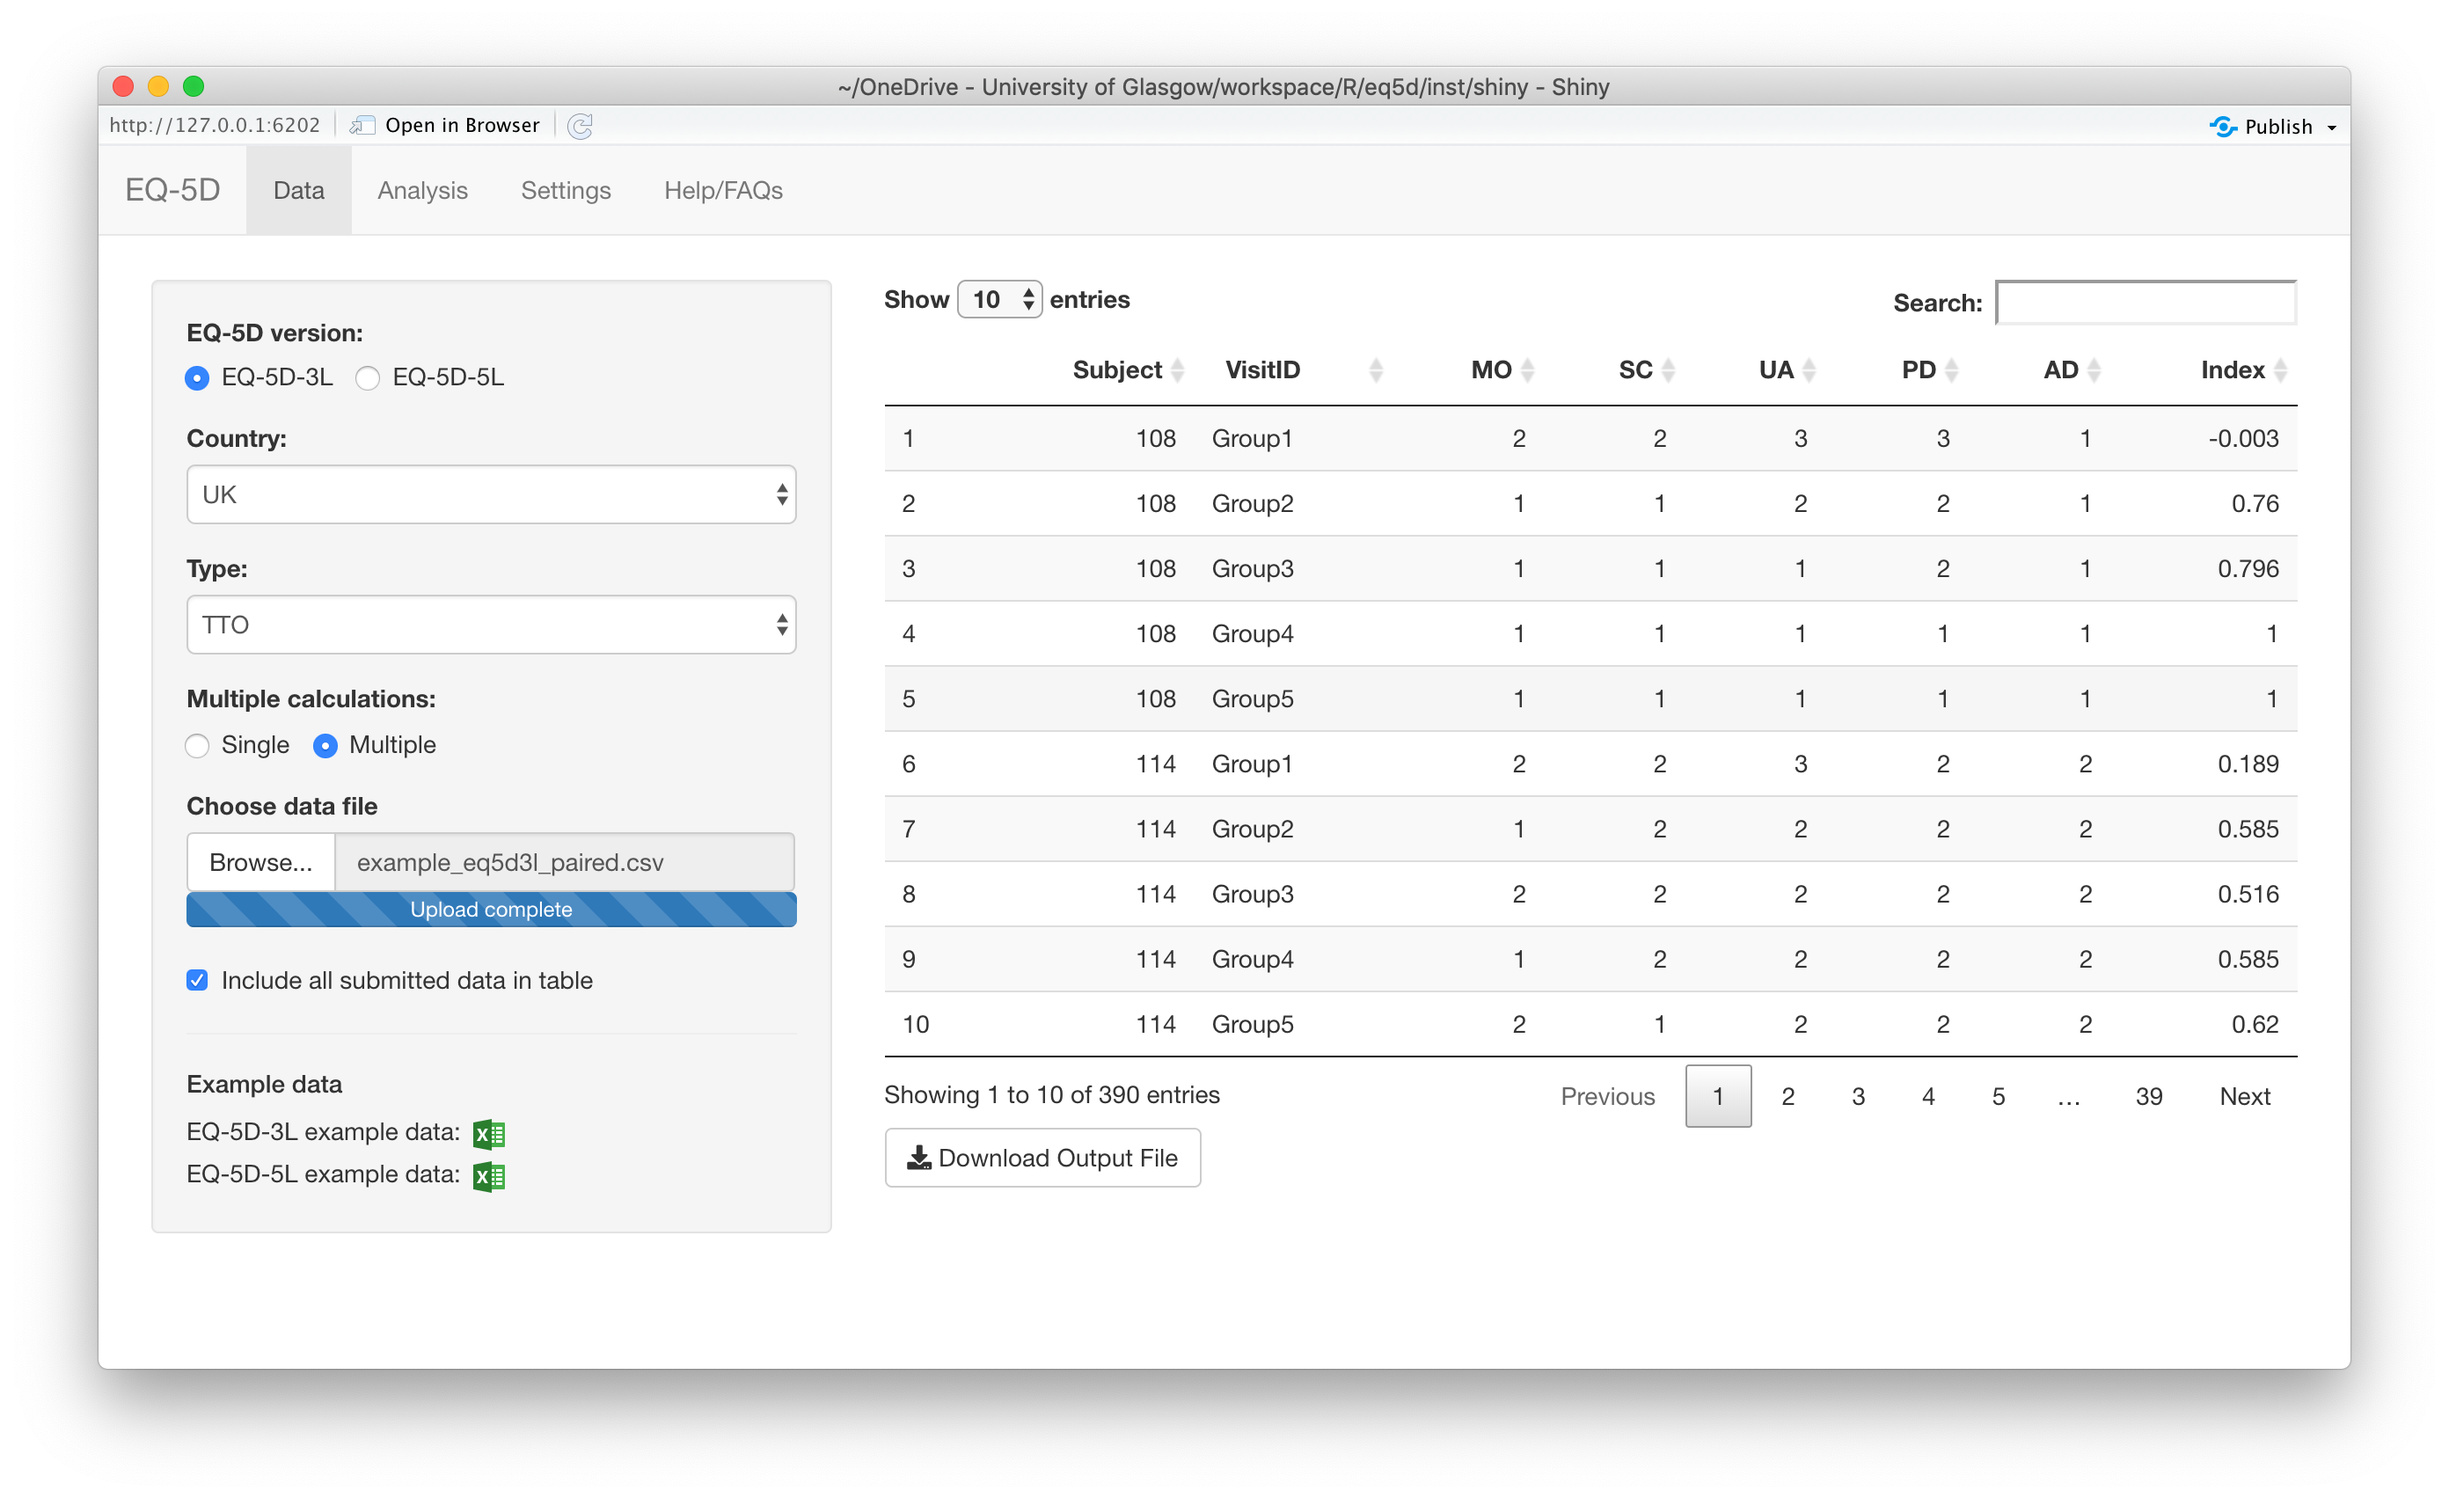
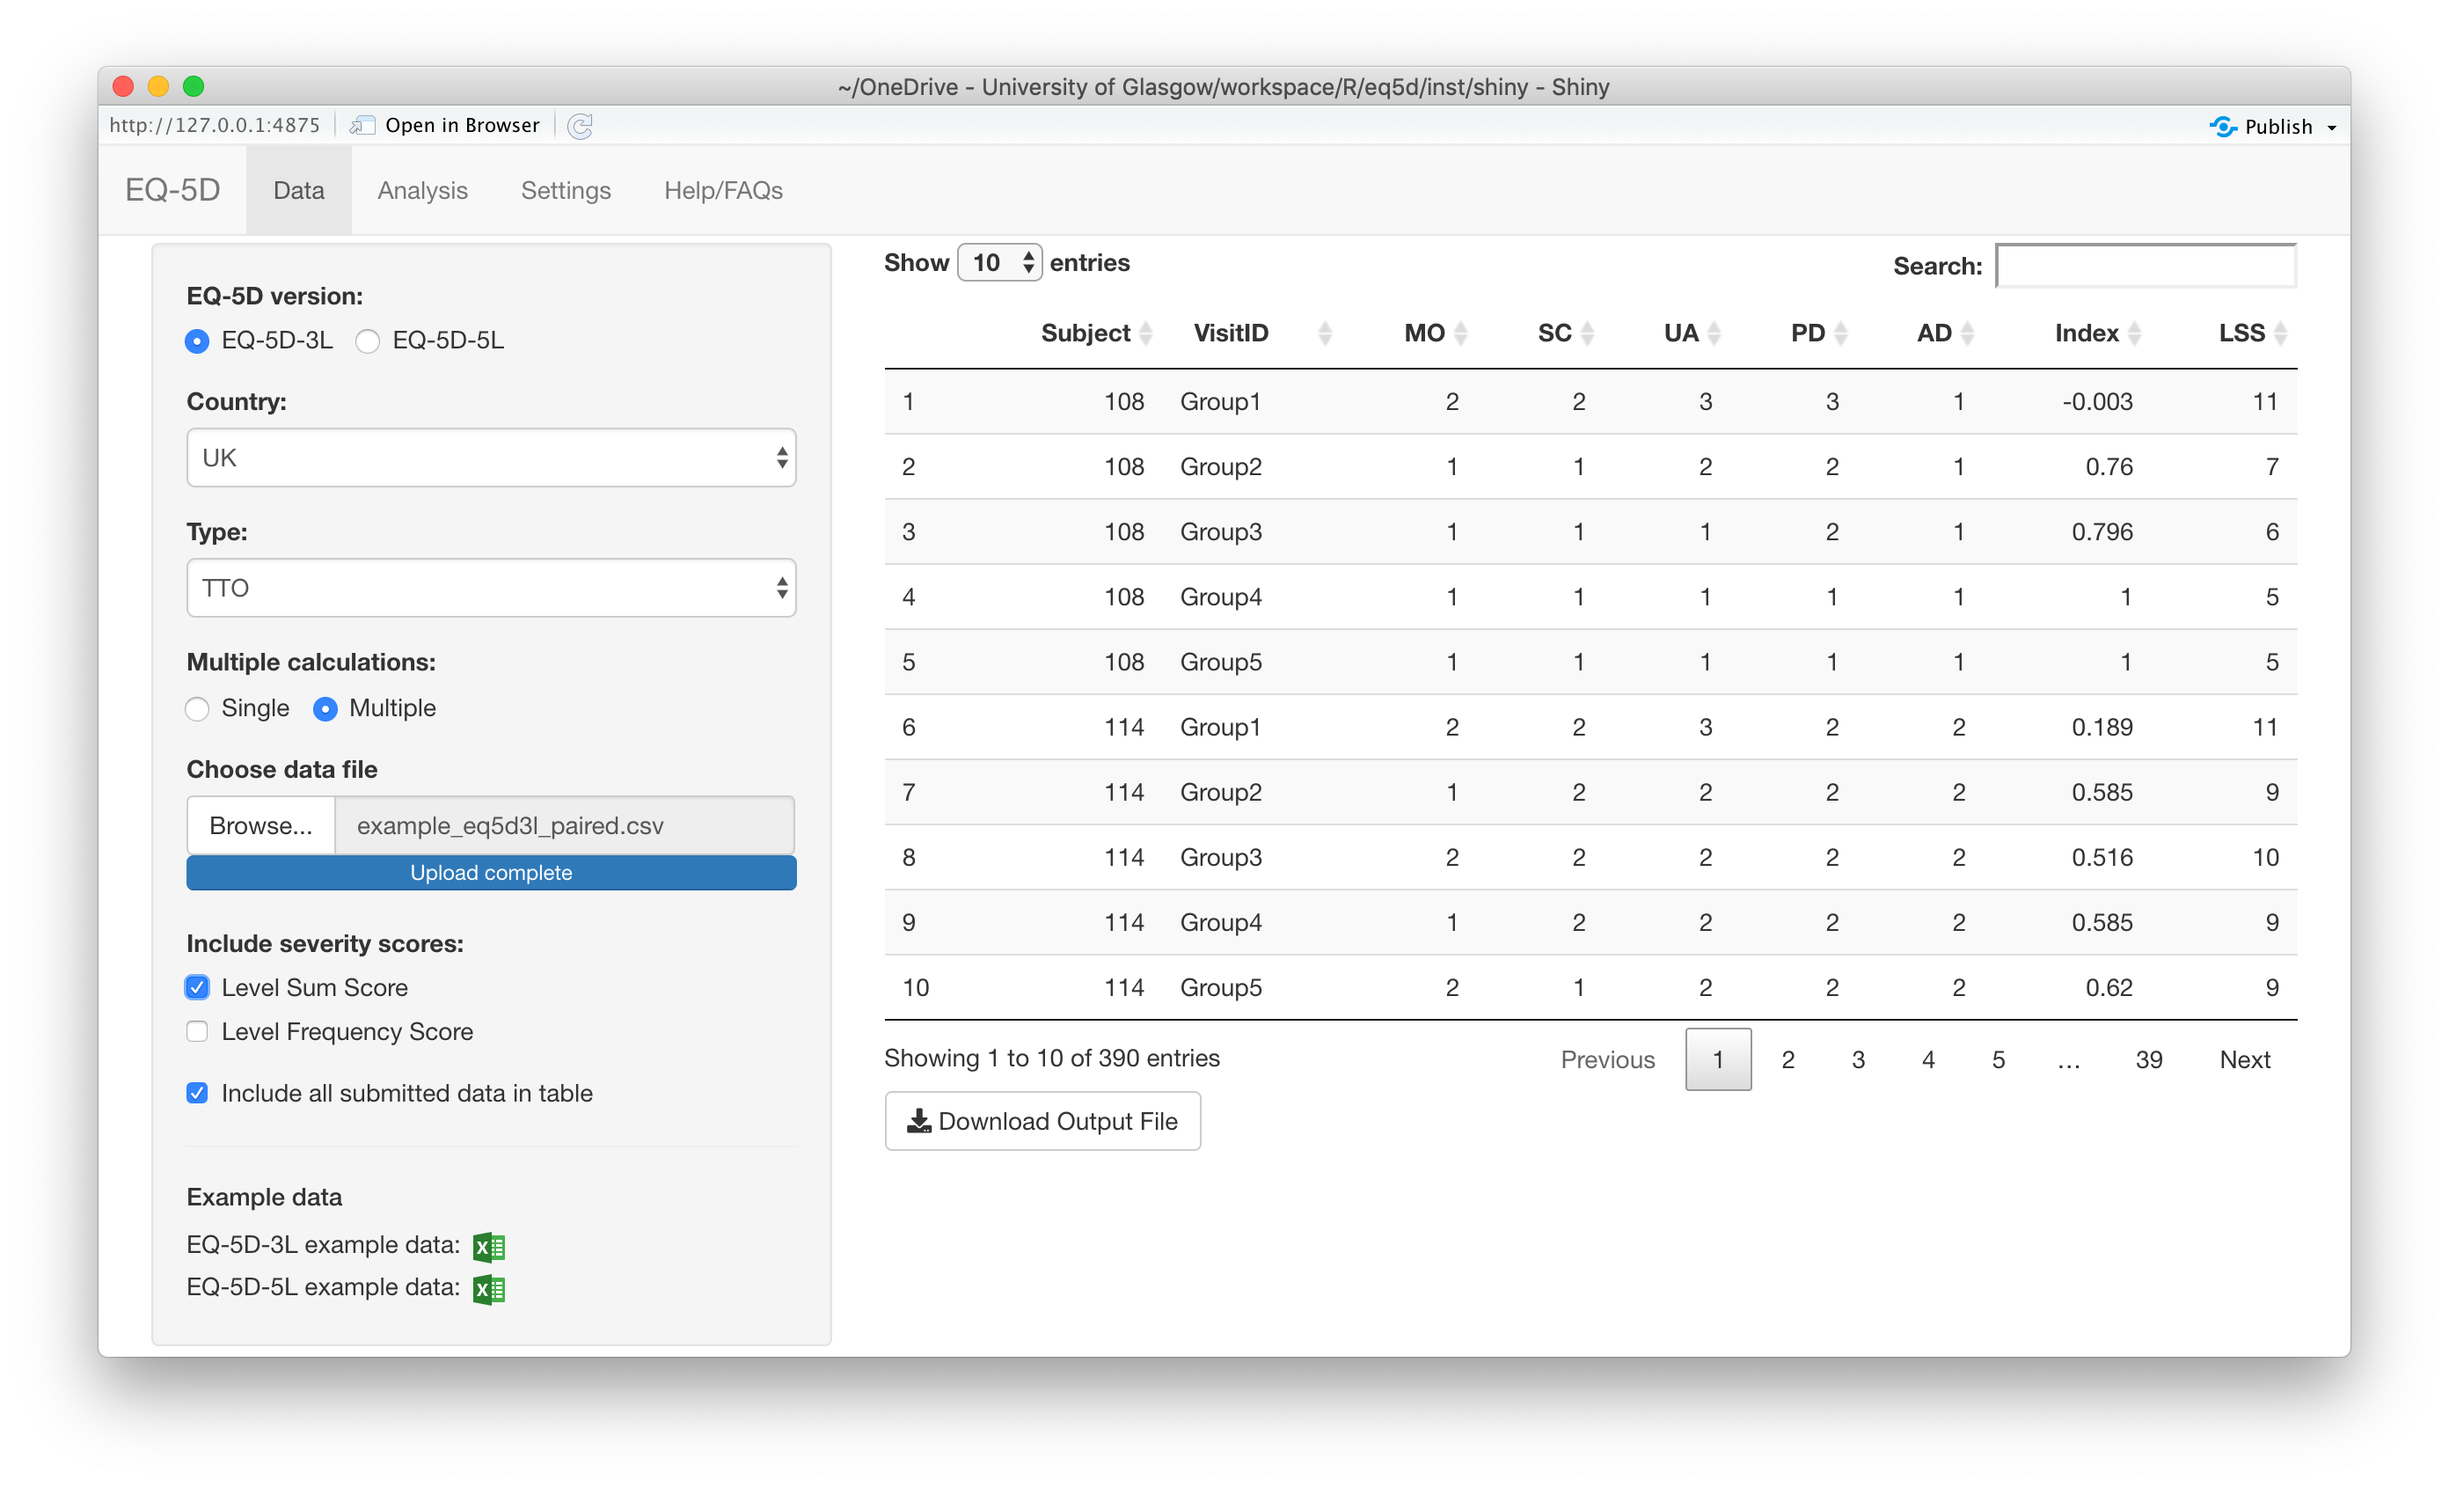
Main readme image updated and text added to README for LSS/LFS.

diff --git a/README.md b/README.md
@@ -208,6 +208,44 @@ head(res)
 #> 6 21221        11        5.5            122           61.0
 ```
 
+### Summarising the Severity of EQ-5D Profiles
+
+The eq5d package includes methods for summarising the severity of EQ-5D
+health state. The Level Sum Score (LSS) treats each dimension’s level as
+a number rather than a category. Each number is added up to produce a
+score between 5 and 15 for EQ-5D-3L and 5 and 25 for EQ-5D-5L.
+
+``` r
+lss(c(MO=1,SC=2,UA=3,PD=2,AD=1), version="3L")
+#> [1] 9
+
+lss(55555, version="5L")
+#> [1] 25
+
+lss(c(11111,12345, 55555), version="5L")
+#> [1]  5 15 25
+```
+
+The Level Frequency Score (LFS) is an alternative method of summarising
+profile data developed by [Oppe and de
+Charro](https://pubmed.ncbi.nlm.nih.gov/11189116). Here the frequency of
+the levels for each health state are characterised. As described in
+Devlin, Janssen and Parkin’s book, the full health profile 11111 for
+EQ-5D-5L has 5, 1 s, no level 2, 3, 4 and 5s, so the LFS is 50000; the
+health profile 55555 is 00005; profiles such as 31524 and 53412 would be
+11111.
+
+``` r
+lfs(c(MO=1,SC=2,UA=3,PD=2,AD=1), version="3L")
+#> [1] "221"
+
+lfs(55555, version="5L")
+#> [1] "00005"
+
+lfs(c(11111,12345, 55555), version="5L")
+#> [1] "50000" "11111" "00005"
+```
+
 ### Paretian Classification of Health Change
 
 The Paretian Classification of Health Change (PCHC) was developed by
@@ -230,7 +268,7 @@ data <- read_excel(system.file("extdata", "eq5d3l_example.xlsx", package="eq5d")
 pre <- data[data$Group=="Group1",][1:50,]
 post <- data[data$Group=="Group2",][1:50,]
 
-#run eq5dcf function on a data.frames
+#run pchc function on data.frames
 
 #Show no change, improve, worse, mixed without totals
 res1 <- pchc(pre, post, version="3L", no.problems=FALSE, totals=FALSE)
@@ -316,28 +354,28 @@ dat <- data.frame(
 
 eq5dds(dat, version="3L")
 #>     MO   SC   UA   PD   AD
-#> 1 50.0 16.7 41.7 66.7 25.0
-#> 2 33.3 66.7 41.7 25.0 33.3
-#> 3 16.7 16.7 16.7  8.3 41.7
+#> 1 33.3 33.3 41.7 41.7  0.0
+#> 2 41.7 25.0 33.3 33.3 41.7
+#> 3 25.0 41.7 25.0 25.0 58.3
 
 eq5dds(dat, version="3L", counts=TRUE)
 #>   MO SC UA PD AD
-#> 1  6  2  5  8  3
-#> 2  4  8  5  3  4
-#> 3  2  2  2  1  5
+#> 1  4  4  5  5  0
+#> 2  5  3  4  4  5
+#> 3  3  5  3  3  7
 
 eq5dds(dat, version="3L", by="Sex")
 #> data[, by]: Female
 #>     MO   SC   UA   PD   AD
-#> 1 50.0 16.7 33.3 83.3 50.0
-#> 2 33.3 66.7 33.3 16.7 16.7
-#> 3 16.7 16.7 33.3  0.0 33.3
+#> 1 16.7 16.7 50.0 50.0  0.0
+#> 2 33.3 16.7 33.3 33.3 66.7
+#> 3 50.0 66.7 16.7 16.7 33.3
 #> ------------------------------------------------------------ 
 #> data[, by]: Male
-#>     MO   SC UA   PD AD
-#> 1 50.0 16.7 50 50.0  0
-#> 2 33.3 66.7 50 33.3 50
-#> 3 16.7 16.7  0 16.7 50
+#>   MO   SC   UA   PD   AD
+#> 1 50 50.0 33.3 33.3  0.0
+#> 2 50 33.3 33.3 33.3 16.7
+#> 3  0 16.7 33.3 33.3 83.3
 ```
 
 ## Helper functions
